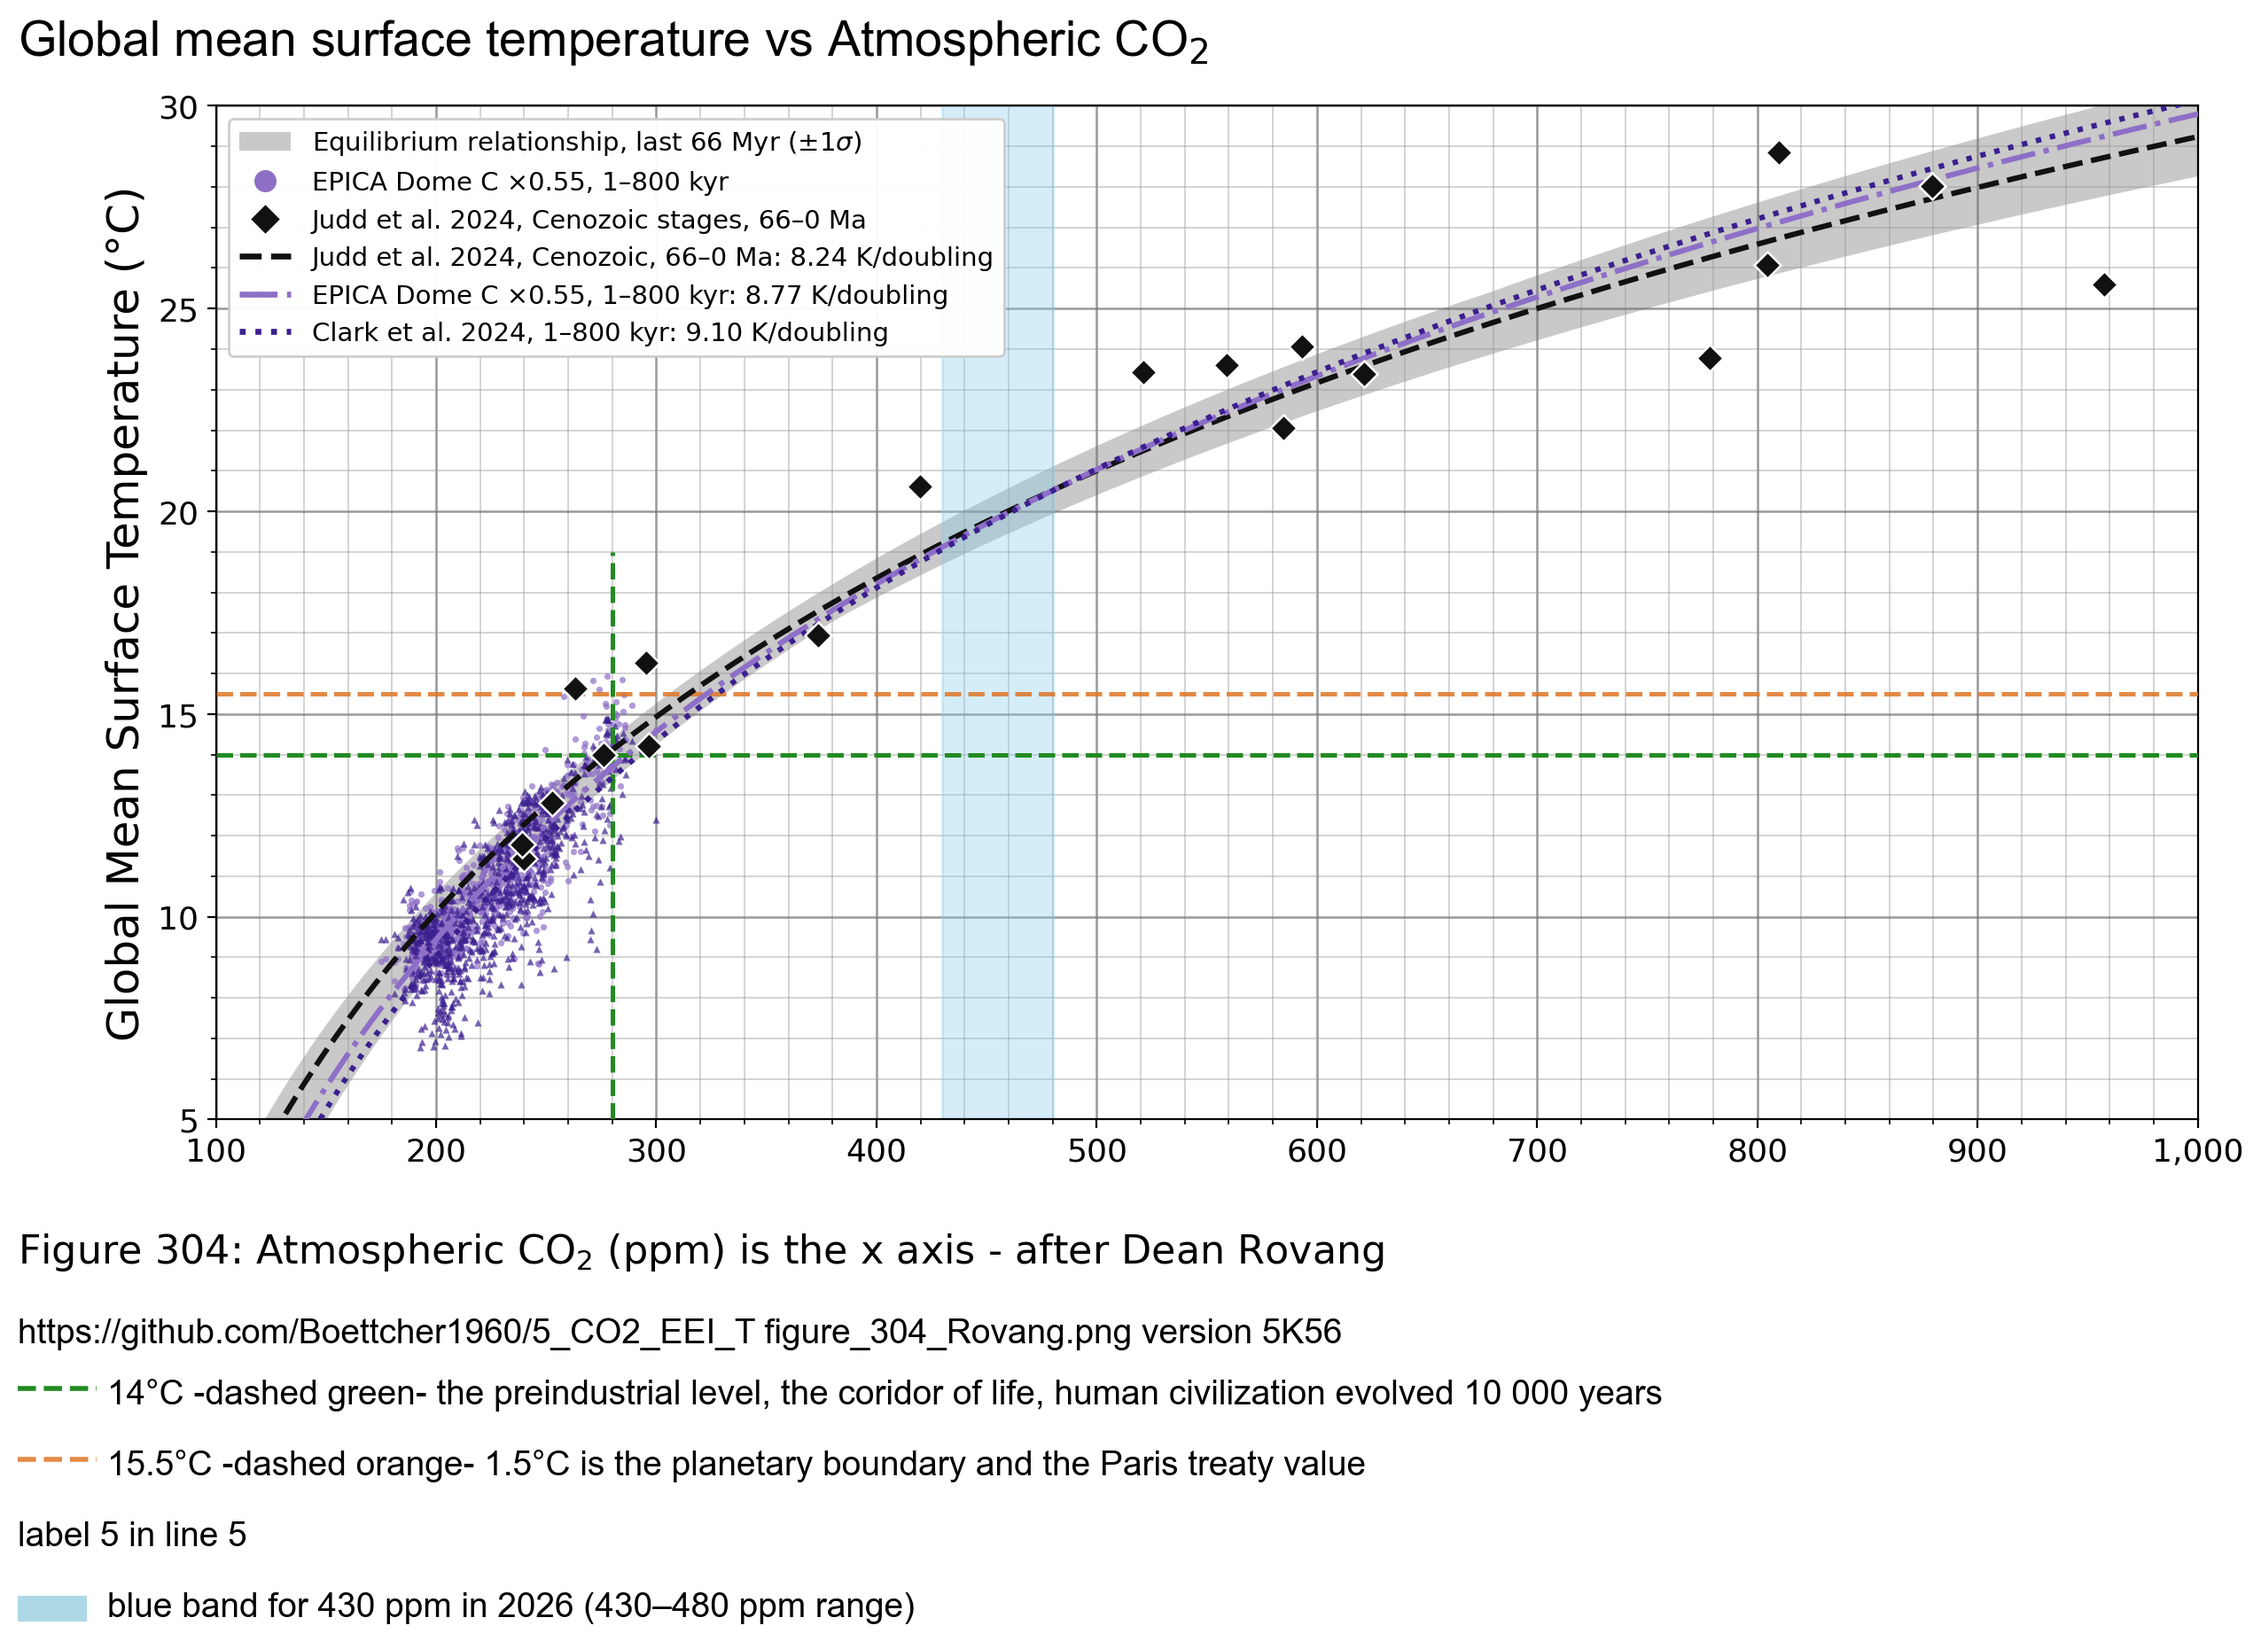
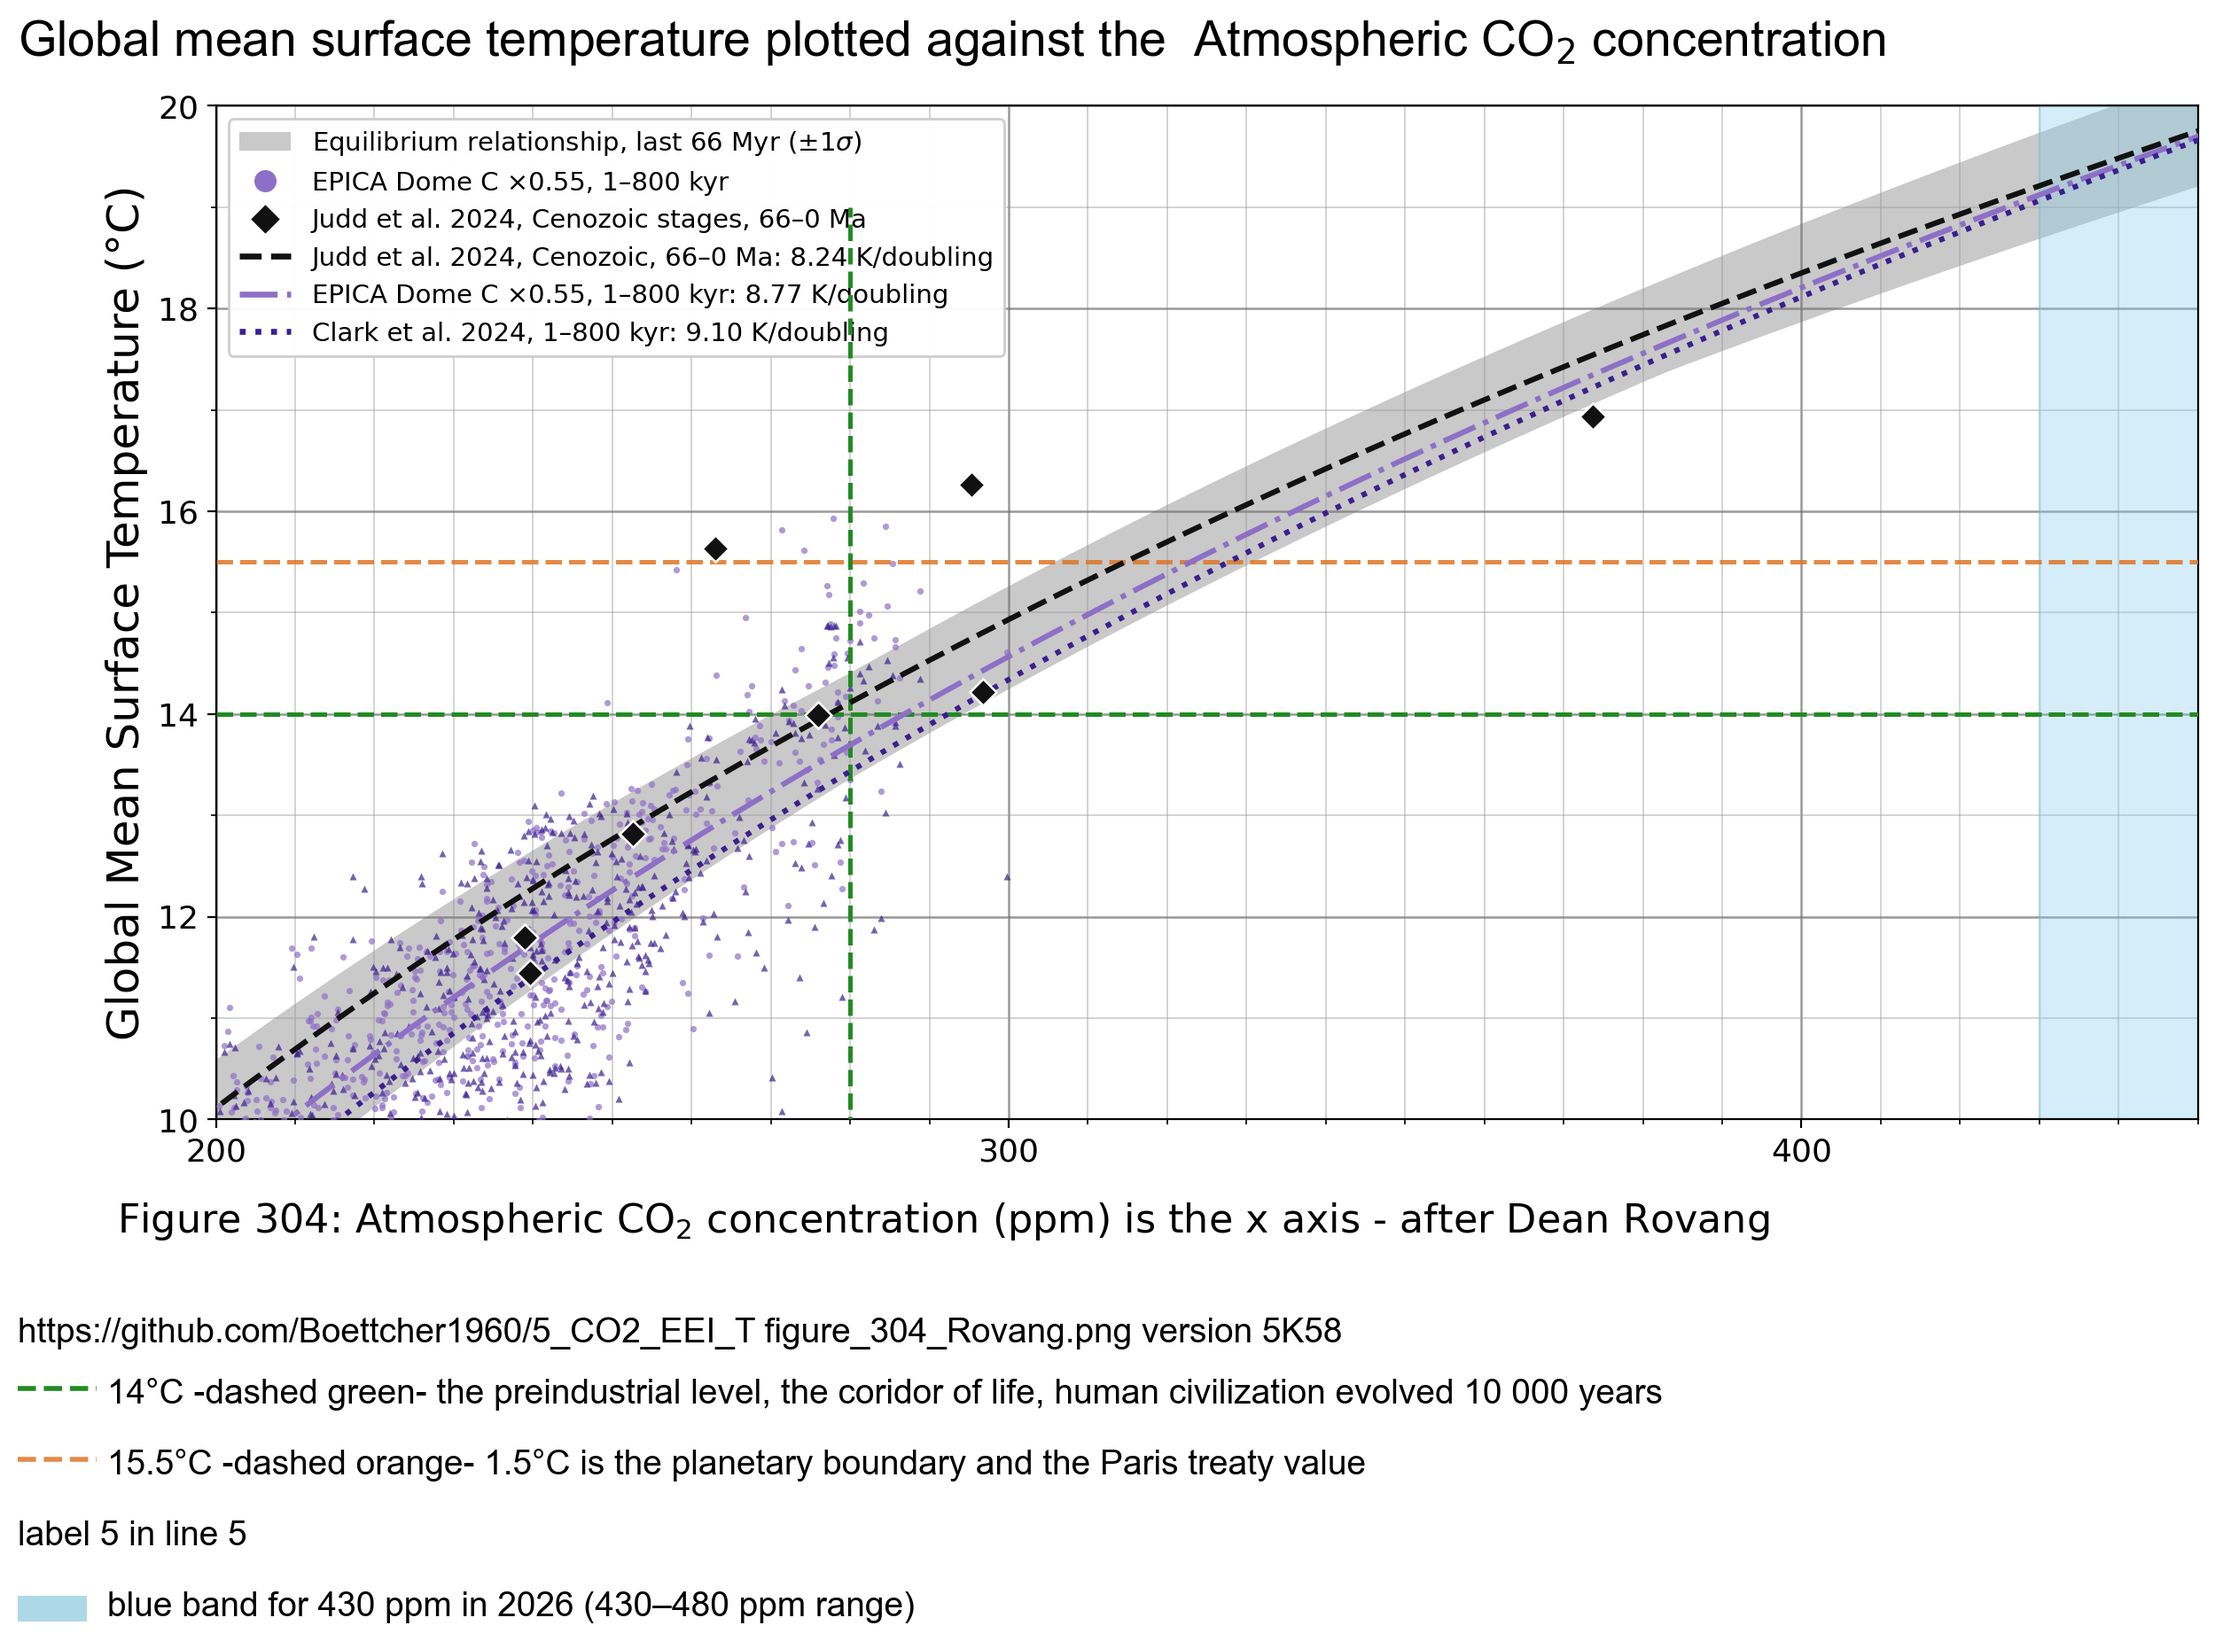
5K58

diff --git a/Rovang/Rovang_figure_303.py b/Rovang/Rovang_figure_303.py
@@ -131,7 +131,8 @@ def _create_figure(linear_x=False):
     # 303.57 set the y-axis limits to y_303min and y_303max, which are defined in config.py
     if linear_x:
         ax.xaxis.set_major_locator(MultipleLocator(100))
-        ax.xaxis.set_minor_locator(MultipleLocator(20))
+        minor_x_step = 10 if x_303max - x_303min < 260 else 20
+        ax.xaxis.set_minor_locator(MultipleLocator(minor_x_step))
         ax.xaxis.set_major_formatter(StrMethodFormatter("{x:,.0f}"))
     else:
         ticks = [125, 250, 500, 1000, 1500]
@@ -154,19 +155,19 @@ def _create_figure(linear_x=False):
     figure_label = "4" if linear_x else "3"
     scale_label = "ppm" if linear_x else "ppm, log$_2$ scale"
     # 303.65 print the headline above the plot
-    headline1 = "Global mean surface temperature vs Atmospheric CO$_2$"
+    headline1 = "Global mean surface temperature plotted against the  Atmospheric CO$_2$ concentration"
     ax.text(
         -0.1, 1.05, headline1, color="black", fontname="Arial", fontsize=20,
         transform=ax.transAxes,
     )
     # 303.68 print the x axis text below the plot
     ax.set_xlabel(
-        f"Figure 304: Atmospheric CO$_2$ ({scale_label}) is the x axis - after Dean Rovang ",
+        f"Figure 304: Atmospheric CO$_2$ concentration ({scale_label}) is the x axis - after Dean Rovang ",
         fontsize=16,
         loc="left",
     )
     # 303.69 move  the x axis text
-    ax.xaxis.set_label_coords(-0.1, -0.11)
+    ax.xaxis.set_label_coords(-0.05, -0.08)
 
     # 303.70 print the y axis text left of the plot
     ax.set_ylabel("Global Mean Surface Temperature (\u00b0C)", fontsize=18)

diff --git a/config.py b/config.py
@@ -256,10 +256,10 @@ y_78min = 0.6 #  for Tom Harris Temperature
 y_78max = 1.6 #  for Tom Harris Temperature
 
 # YLO, YHI = 5, 40
-x_303min = 100   # 125  figure303 CO2 x axis 
-x_303max = 1000  # 1500 figure303 CO2 x axis 
-y_303min = 5  # 5 13 figure303 Temperature y axis left
-y_303max = 30 # 30 17 figure303 Temperature y axis left
+x_303min = 200   # 125  figure303 CO2 x axis 
+x_303max = 450  # 1500 figure303 CO2 x axis 
+y_303min = 10  # 5 13 figure303 Temperature y axis left
+y_303max = 20 # 30 17 figure303 Temperature y axis left
 
 
 x_anf = 2004

diff --git a/main.py b/main.py
@@ -1,5 +1,5 @@
 # main.py
-v = "5K56" # make 4 text lines below the plot like in text_9_print_7_lines():
+v = "5K58" # make 4 text lines below the plot like in text_9_print_7_lines():
 # https://github.com/Boettcher1960/5_CO2_EEI_T
 # ocean stratification https://bsky.app/profile/thomas-boettcher.bsky.social/post/3mj7zx7fzsc26
 # https://drtomharris.substack.com/p/the-great-decoupling-how-ocean-stratification

diff --git a/models.py b/models.py
@@ -1023,6 +1023,9 @@ if ( y_303max - y_303min ) < 5 make minor grid lines every 0.2°C
 if ( figure303 == 4 ) make major grid lines every 100 ppm
 if ( figure303 == 4 ) make minor grid lines every 20 ppm
 
+
+if ( x_303max - y_303min ) < 260 make minor grid lines every 10 ppm
+
 """
 
 
